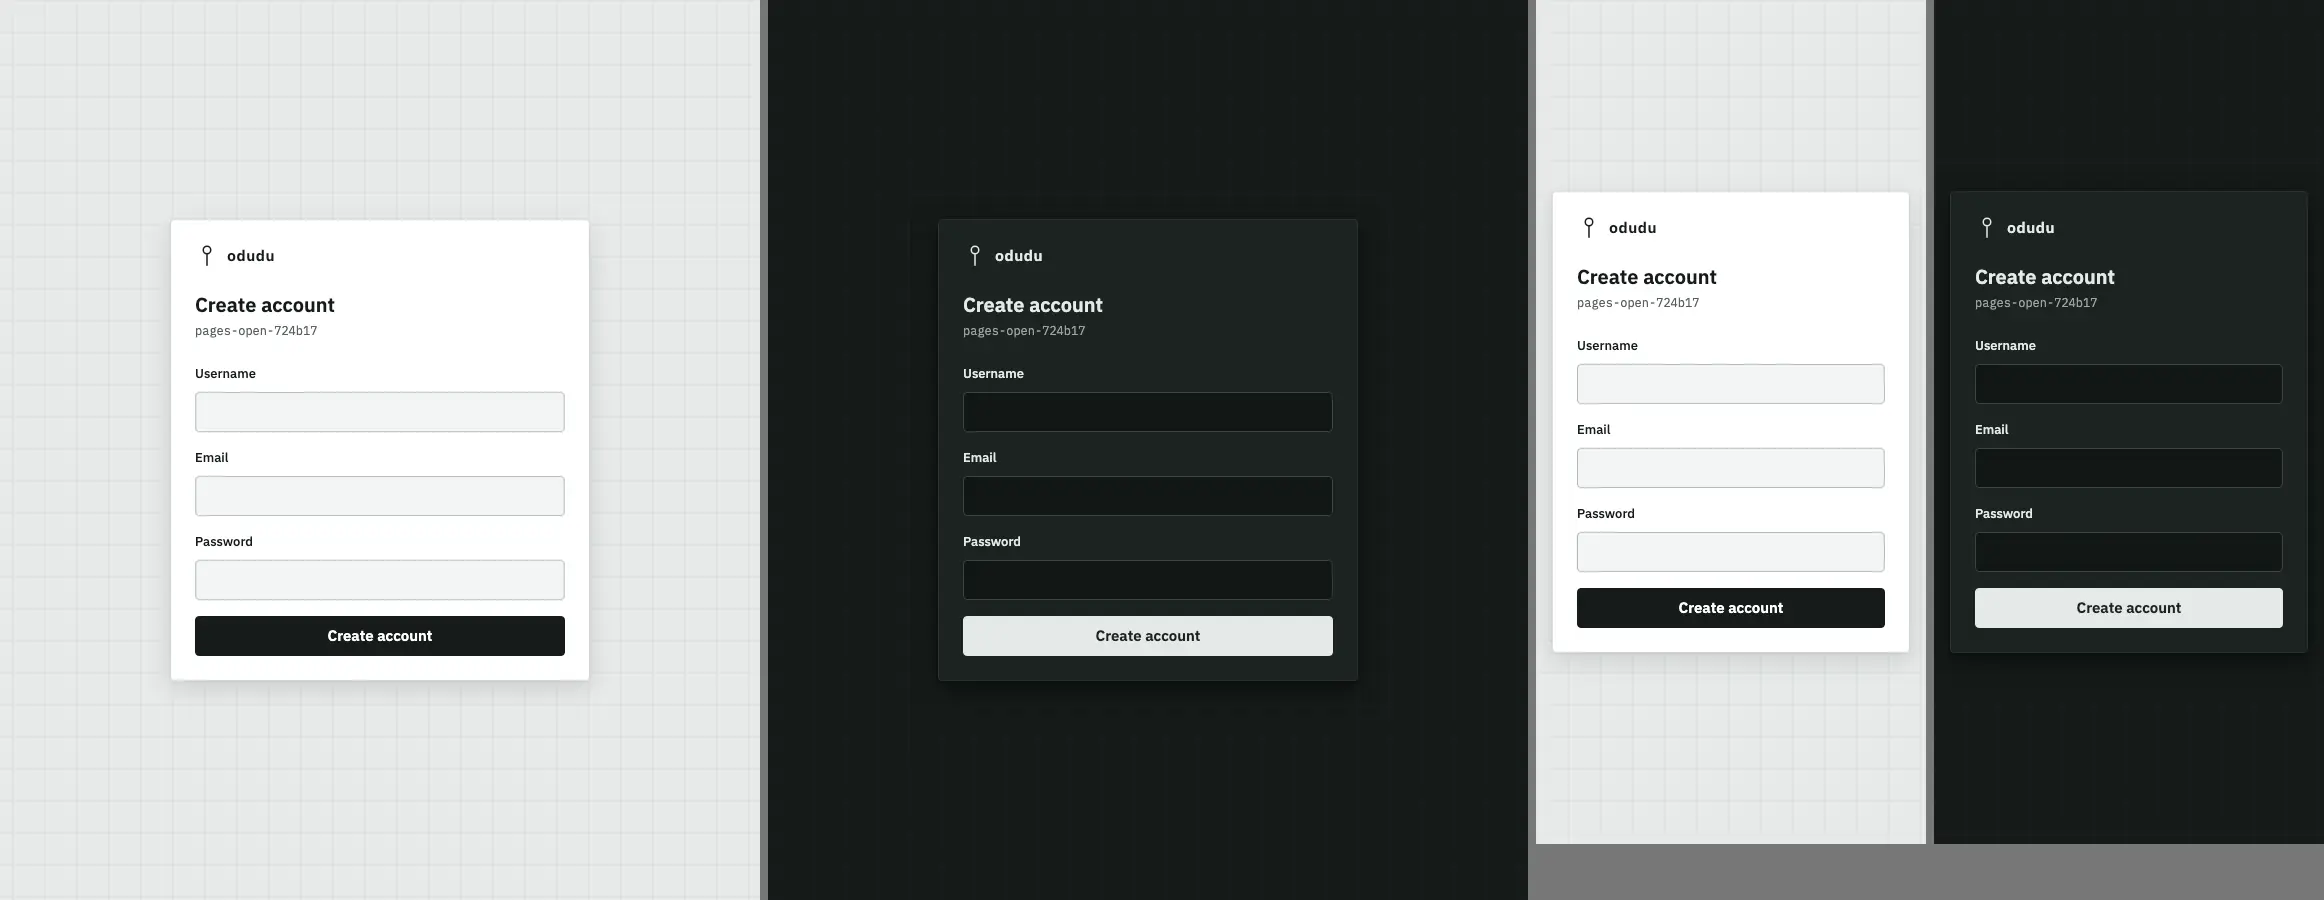
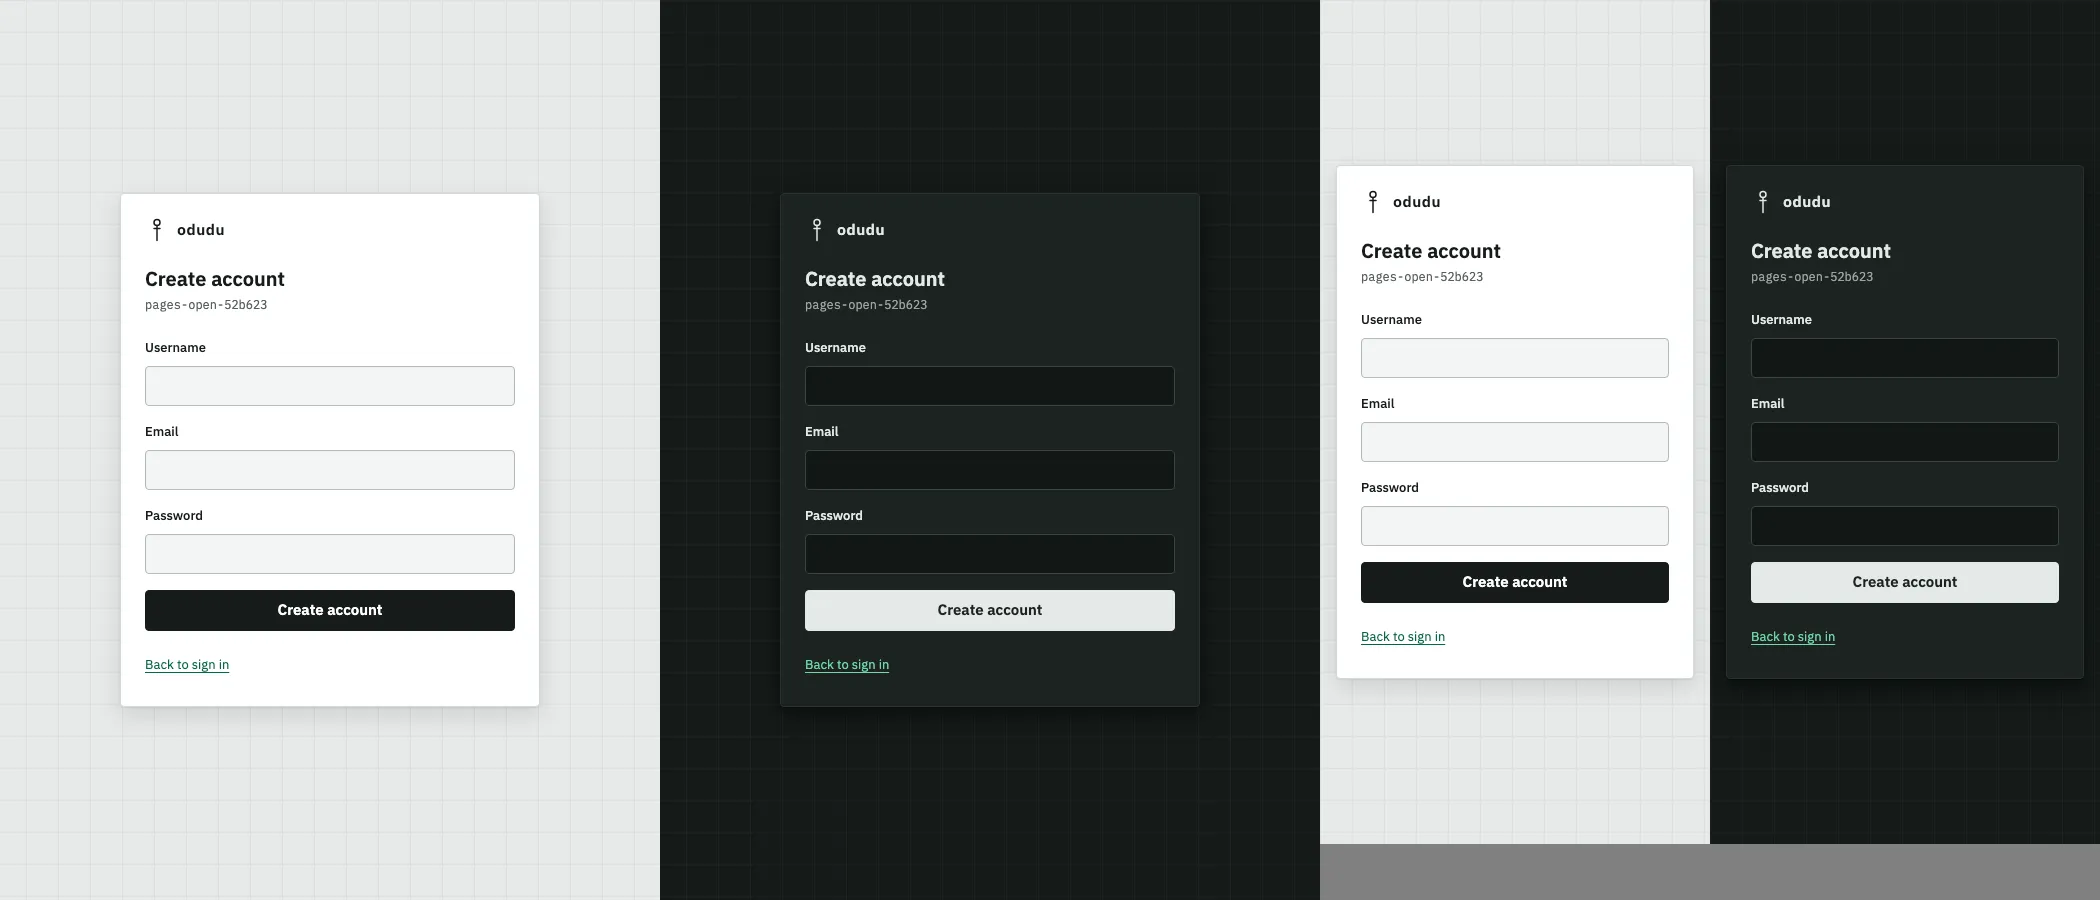
Capture the new page states and hold them to axe in both themes
The server-pages spec walks sign-in to registration and reset and back,
each form refused in place; four new gallery states, nine re-captured,
the failure page for registration retired.

diff --git a/apps/admin-console/e2e/server-pages.spec.ts b/apps/admin-console/e2e/server-pages.spec.ts
@@ -330,26 +330,51 @@ test('registration, the unverified account, password reset and their links', asy
   page,
   problems,
 }) => {
-  await page.goto(`/tenants/${open}/login-actions/registration`);
+  // The sign-in page offers the two pages this tenant serves, and the way
+  // on from each leads back to the same request.
+  await page.goto(authorize(open, 'openapp'));
+  await expect(page.getByRole('link', { name: 'Forgot password?' })).toBeVisible();
+  await expect(page.getByRole('link', { name: 'Create an account' })).toBeVisible();
+  await inspect(page, 'signin-links');
+  await page.getByRole('link', { name: 'Create an account' }).click();
   await expect(page.getByRole('heading', { level: 1, name: 'Create account' })).toBeVisible();
+  await expect(page.getByRole('link', { name: 'Back to sign in' })).toBeVisible();
   await inspect(page, 'registration');
+
+  // Nothing filled in: each empty field says so, in place, and the first has focus.
+  await page.getByRole('button', { name: 'Create account' }).click();
+  await expect(page.getByRole('heading', { level: 1, name: 'Create account' })).toBeVisible();
+  await expect(page.getByRole('alert')).toContainText('Enter a username.');
+  await expect(page.getByLabel('Username')).toBeFocused();
+  await expect(page.getByLabel('Username')).toHaveAttribute('aria-invalid', 'true');
+  await inspect(page, 'registration-required');
 
   await page.getByLabel('Username').fill('newcomer');
   await page.getByLabel('Email').fill(`newcomer-${run}@example.test`);
   await page.getByLabel('Password').fill('a');
   await page.getByRole('button', { name: 'Create account' }).click();
-  await expect(
-    page.getByRole('heading', { level: 1, name: "Can't create this account" }),
-  ).toBeVisible();
-  await inspect(page, 'registration-failed');
+  await expect(page.getByRole('alert')).toContainText('Password must');
+  await expect(page.getByLabel('Username')).toHaveValue('newcomer');
+  await expect(page.getByLabel('Password')).toHaveValue('');
+  await expect(page.getByLabel('Password')).toBeFocused();
+  await expect(page.getByRole('link', { name: 'Back to sign in' })).toBeVisible();
+  await inspect(page, 'registration-weak');
 
-  await page.goto(`/tenants/${open}/login-actions/registration`);
-  await page.getByLabel('Username').fill('newcomer');
-  await page.getByLabel('Email').fill(`newcomer-${run}@example.test`);
   await page.getByLabel('Password').fill(PASSWORD);
   await page.getByRole('button', { name: 'Create account' }).click();
   await expect(page.getByRole('heading', { level: 1, name: 'Account created' })).toBeVisible();
+  await expect(page.getByRole('link', { name: 'Back to sign in' })).toBeVisible();
   await inspect(page, 'registration-succeeded');
+
+  // The same name again is refused on its own field, with the other values kept.
+  await page.goto(`/tenants/${open}/login-actions/registration`);
+  await page.getByLabel('Username').fill('newcomer');
+  await page.getByLabel('Email').fill(`other-${run}@example.test`);
+  await page.getByLabel('Password').fill(PASSWORD);
+  await page.getByRole('button', { name: 'Create account' }).click();
+  await expect(page.getByRole('alert')).toContainText('That username is already taken.');
+  await expect(page.getByLabel('Email')).toHaveValue(`other-${run}@example.test`);
+  await inspect(page, 'registration-taken');
 
   const key = mailKey(open, `newcomer-${run}@example.test`);
   await page.goto(`/tenants/${open}/login-actions/action-token?key=${key}`);
@@ -362,24 +387,25 @@ test('registration, the unverified account, password reset and their links', asy
   await page.goto(authorize(open, 'openapp'));
   await signIn(page, 'unverified');
   await expect(page.getByRole('heading', { level: 1, name: "Can't sign in yet" })).toBeVisible();
+  await page.getByRole('link', { name: 'Back to sign in' }).waitFor();
   await inspect(page, 'email-unverified');
+  await page.getByRole('link', { name: 'Back to sign in' }).click();
+  await expect(page.getByRole('heading', { level: 1, name: 'Sign in' })).toBeVisible();
 
-  await page.goto(`/tenants/${open}/login-actions/reset-password`);
+  await page.getByRole('link', { name: 'Forgot password?' }).click();
   await expect(
     page.getByRole('heading', { level: 1, name: 'Forgot your password?' }),
   ).toBeVisible();
   await inspect(page, 'reset-request');
+  await page.getByRole('button', { name: 'Send reset link' }).click();
+  await expect(page.getByRole('alert')).toContainText('Email is required.');
+  await expect(page.getByLabel('Email')).toBeFocused();
+  await inspect(page, 'reset-request-failed');
   await page.getByLabel('Email').fill(`resetter-${run}@example.test`);
   await page.getByRole('button', { name: 'Send reset link' }).click();
   await expect(page.getByRole('heading', { level: 1, name: 'Check your email' })).toBeVisible();
+  await expect(page.getByRole('link', { name: 'Back to sign in' })).toBeVisible();
   await inspect(page, 'reset-sent');
-
-  await page.goto(`/tenants/${open}/login-actions/reset-password`);
-  await page.getByRole('button', { name: 'Send reset link' }).click();
-  await expect(
-    page.getByRole('heading', { level: 1, name: "Can't send a reset link" }),
-  ).toBeVisible();
-  await inspect(page, 'reset-request-failed');
 
   const reset = mailKey(open, `resetter-${run}@example.test`);
   await page.goto(`/tenants/${open}/login-actions/action-token?key=${reset}`);
@@ -390,10 +416,11 @@ test('registration, the unverified account, password reset and their links', asy
   await page.getByLabel('New password').fill('a');
   await page.getByRole('button', { name: 'Reset password' }).click();
   await expect(
-    page.getByRole('heading', { level: 1, name: "Can't reset your password" }),
+    page.getByRole('heading', { level: 1, name: 'Choose a new password' }),
   ).toBeVisible();
+  await expect(page.getByRole('alert')).toContainText('Password must');
+  await expect(page.getByLabel('New password')).toBeFocused();
   await inspect(page, 'reset-weak');
-  await page.goto(`/tenants/${open}/login-actions/action-token?key=${reset}`);
   await page.getByLabel('New password').fill(`${PASSWORD}-reset`);
   await page.getByRole('button', { name: 'Reset password' }).click();
   await expect(
@@ -402,6 +429,7 @@ test('registration, the unverified account, password reset and their links', asy
   await inspect(page, 'reset-done');
   await page.goto(`/tenants/${open}/login-actions/action-token?key=${reset}`);
   await expect(page.getByRole('heading', { level: 1 })).toContainText("can't be used");
+  await expect(page.getByRole('link', { name: 'Request a new link' })).toBeVisible();
   await inspect(page, 'reset-link-failed');
   forgiveRefusals(problems);
 });
